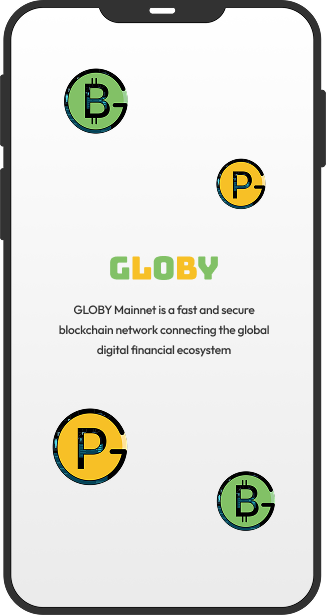
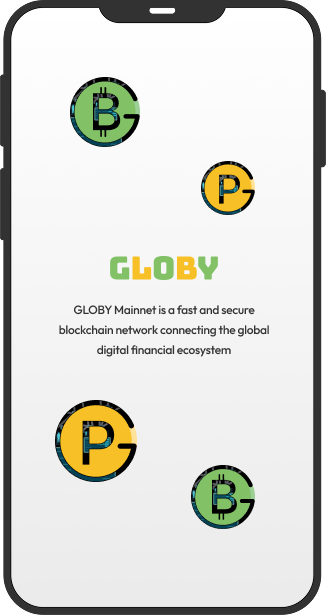
11/10

diff --git a/script/script.js b/script/script.js
@@ -30,16 +30,18 @@ const sec1_slide = () => {
       el: ".swiper-pagination",
     },
     loop: true,
-    loopedSlides: 3,
+    slidesPerView: 1,
     autoplay: {
       delay: 2000,
-      disableOnInteraction: false,
+      // disableOnInteraction: false,
     },
-    speed: 1000,
-    effect: 'fade', 
-    // fadeEffect: {
-    //   crossFade: true, 
-    // },
+    speed: 500,
+    breakpoints: {
+    500: {
+        speed: 800,
+    },
+    
+  },
   });
 
 };
